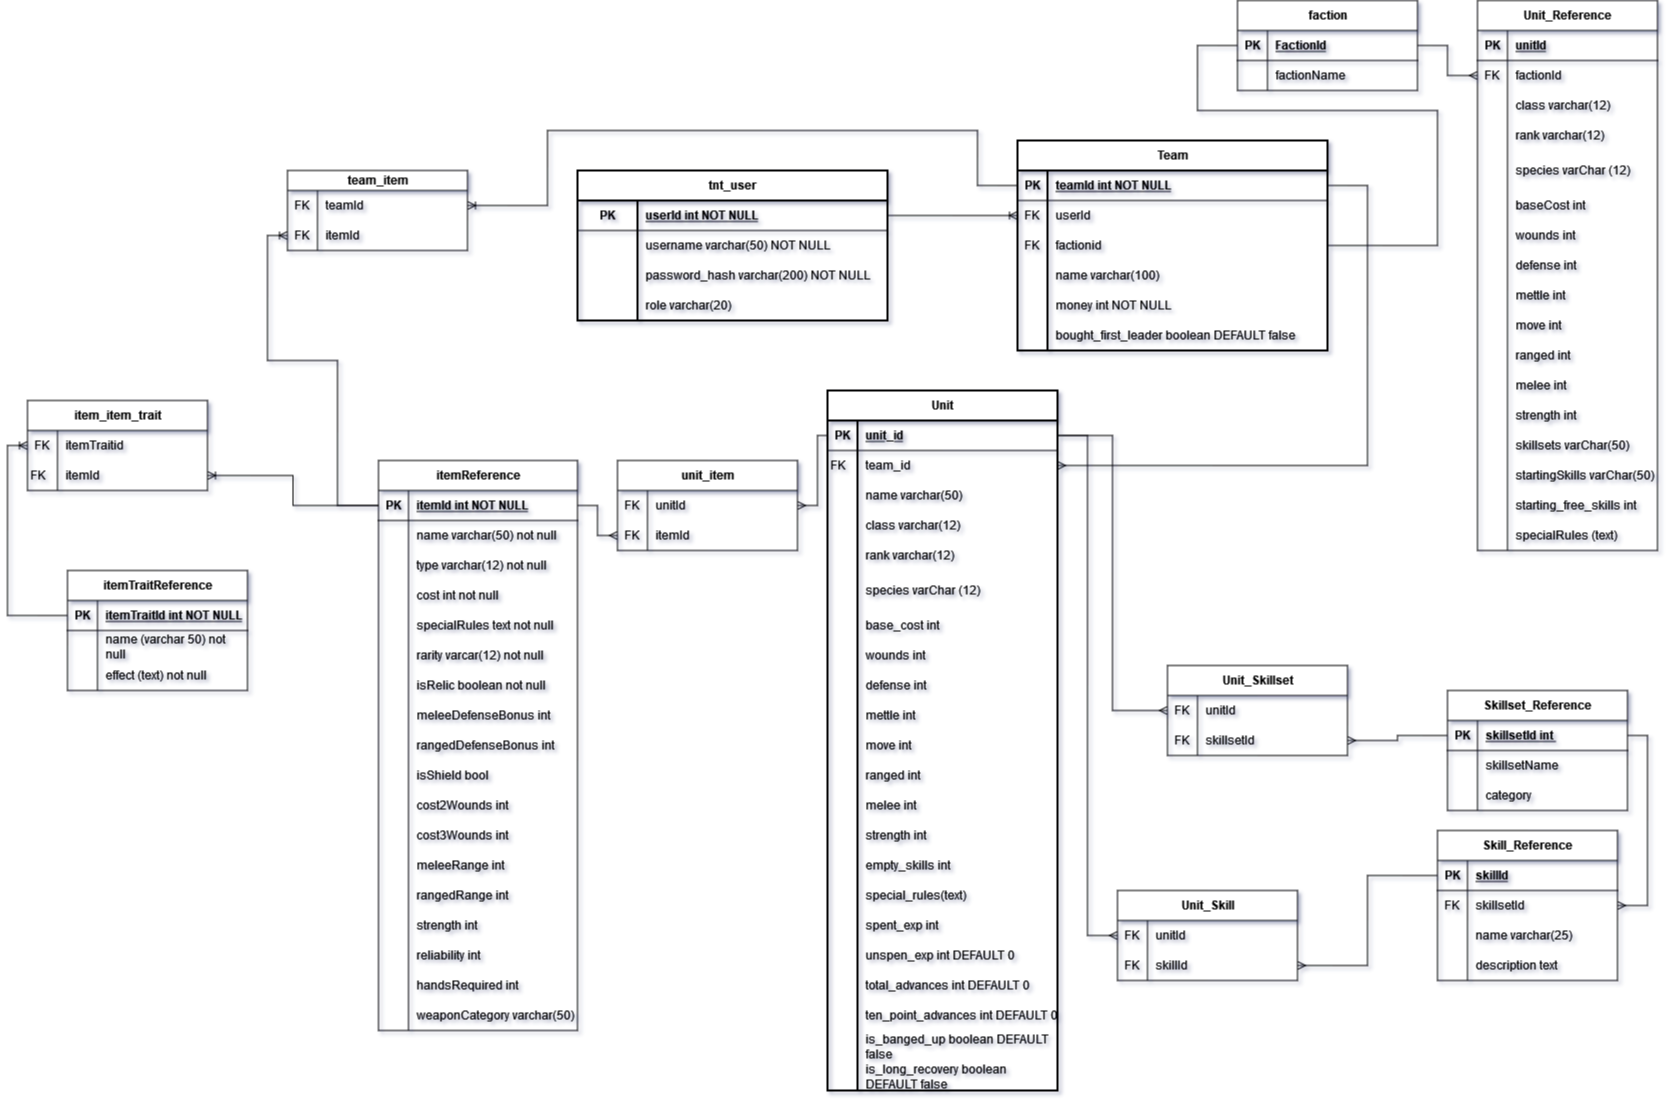
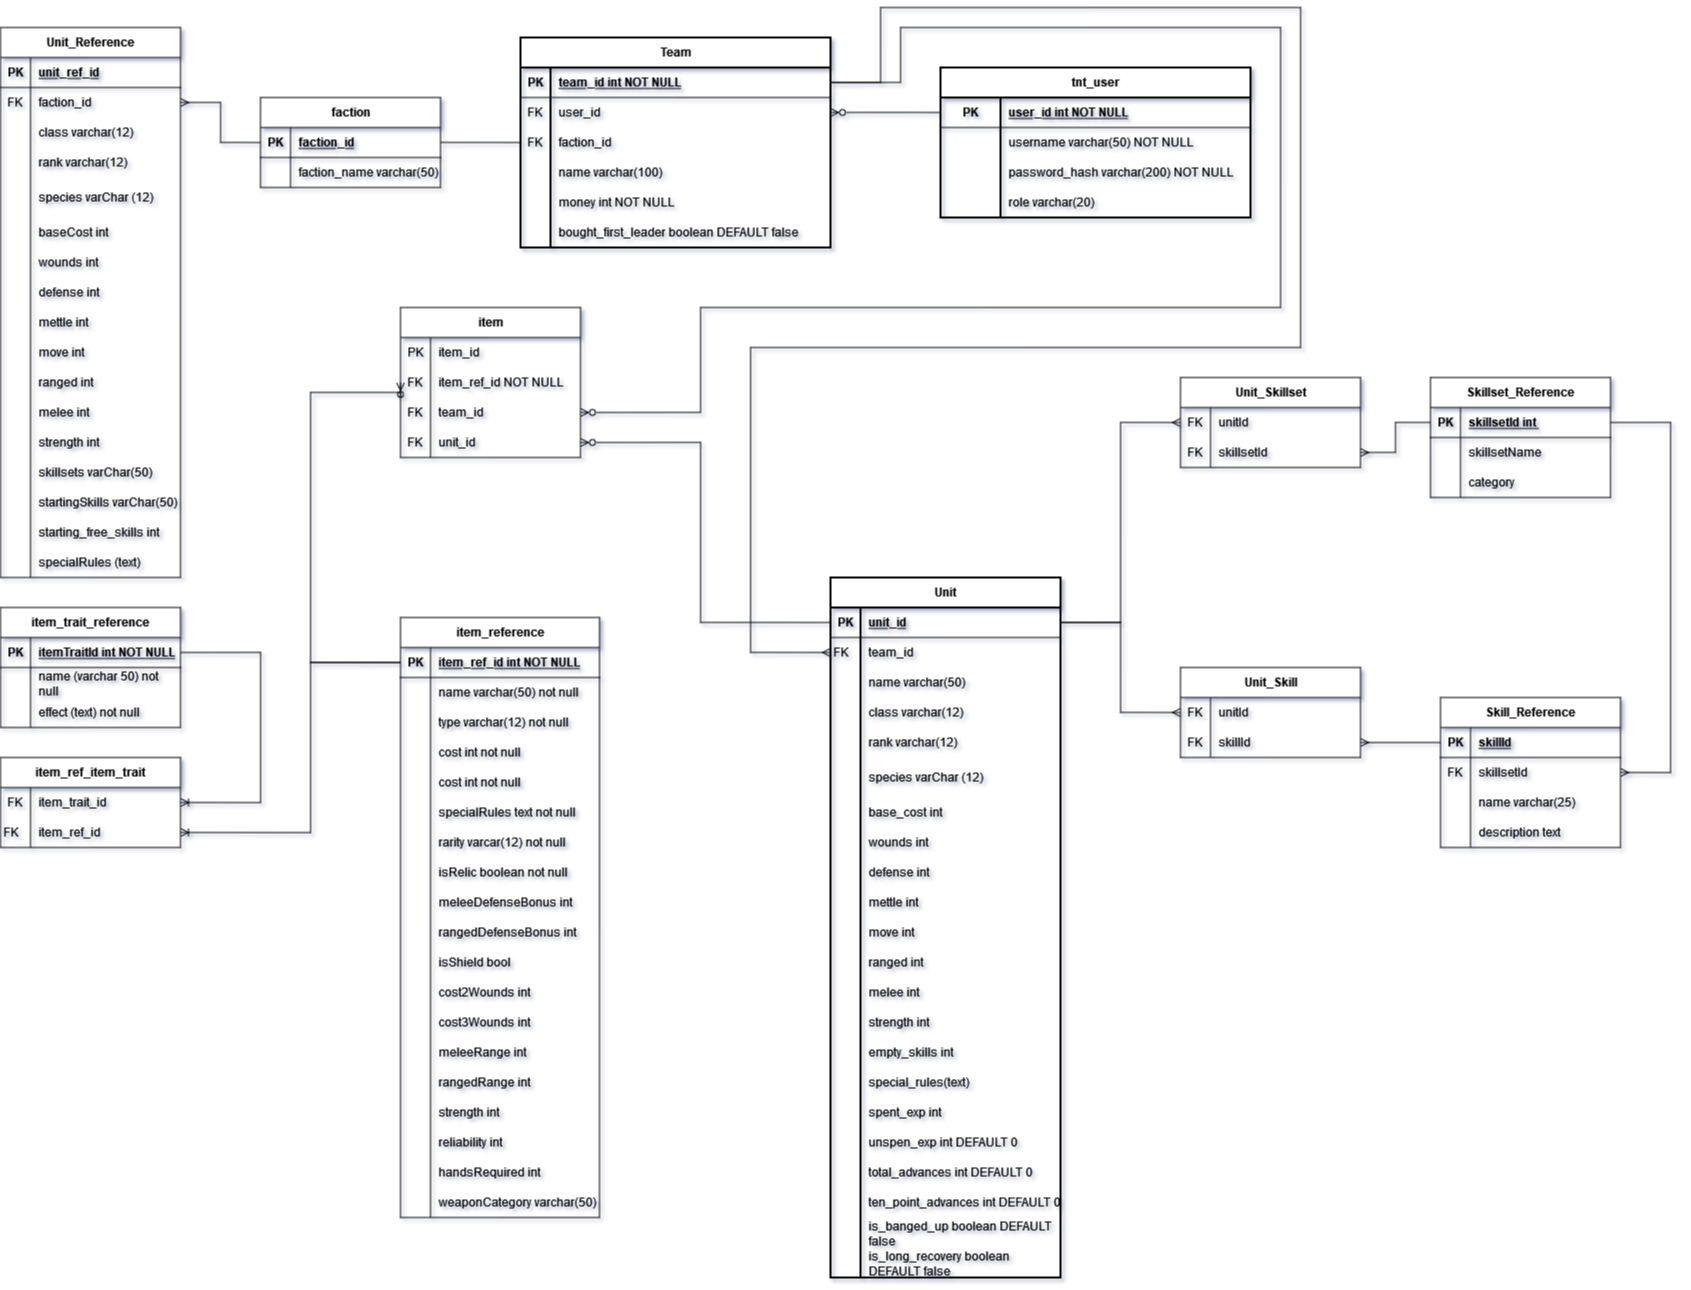
Updated database so inventory will work properly

diff --git a/TNT-Server/src/main/java/my/TNTBuilder/dao/JdbcTeamDao.java b/TNT-Server/src/main/java/my/TNTBuilder/dao/JdbcTeamDao.java
@@ -82,6 +82,18 @@ public class JdbcTeamDao implements TeamDao{
     }
 
     @Override
+    public void purchaseItem(int itemId, int teamId) {
+        String sql = "INSERT INTO team_item(item_id, team_id) VALUES (?, ?)";
+        try {
+
+        } catch (CannotGetJdbcConnectionException e) {
+            throw new DaoException("Unable to connect to server or database", e);
+        } catch (DataIntegrityViolationException e) {
+            throw new DaoException("Data integrity violation", e);
+        }
+    }
+
+    @Override
     public List<Team> getAllTeamsForUser(int userId) {
         List<Team> allTeams = new ArrayList<>();
         String sql = SELECT_ALL_FROM_TEAM + "WHERE user_id = ?";

diff --git a/TNT-Server/src/main/java/my/TNTBuilder/dao/TeamDao.java b/TNT-Server/src/main/java/my/TNTBuilder/dao/TeamDao.java
@@ -41,4 +41,10 @@ public interface TeamDao {
      * @param team the updated version of the team
      */
     void updateTeam(Team team);
+
+    /**
+     * Adds an item to the team-item join table
+     * @param itemId the id of the item to add
+     */
+    void purchaseItem(int itemId, int teamId);
 }
